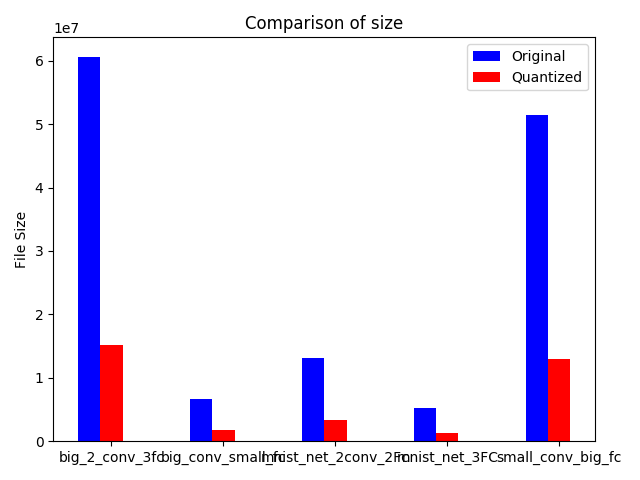
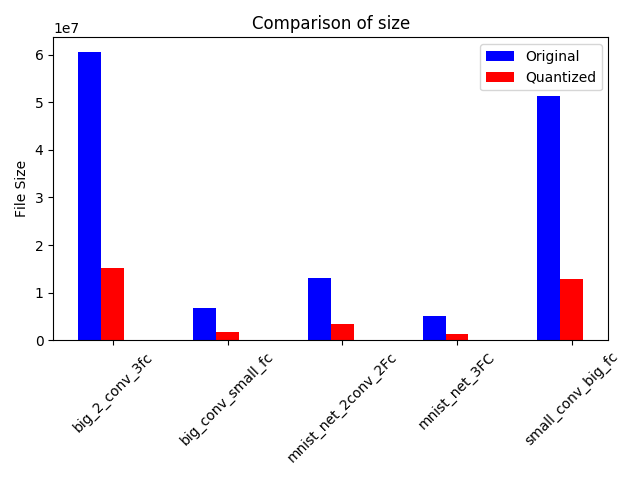
added requirements

diff --git a/tf_quantize/analysis/plot_net.py b/tf_quantize/analysis/plot_net.py
@@ -95,7 +95,7 @@ def bar_chart(original_data, quantized_data, xNames, yLabel, title,filename):
                      label='Quantized')
     plt.ylabel(yLabel)
     plt.title(title)
-    plt.xticks(x + width, xNames)
+    plt.xticks(x + width, xNames, rotation = 45)
     plt.legend()
     plt.tight_layout()
     plt.savefig(filename)
